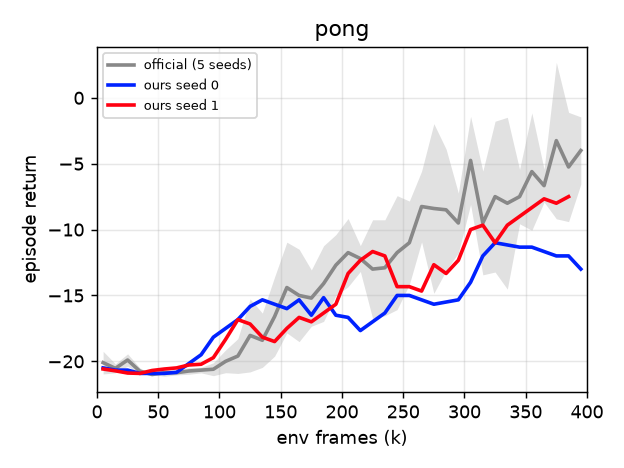
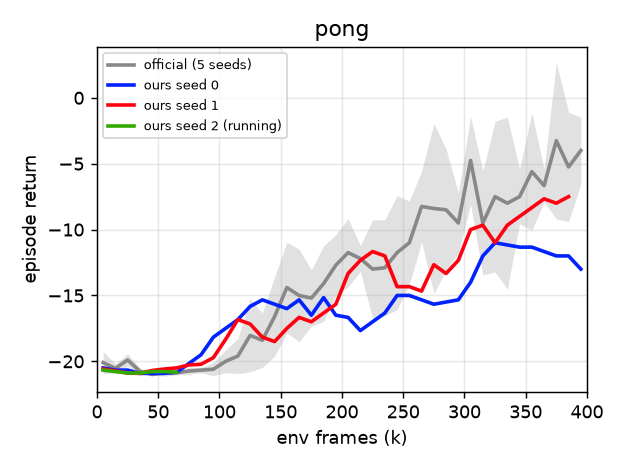
Ms Pacman seed 1 finished

diff --git a/docs/index.md b/docs/index.md
@@ -5,7 +5,7 @@ title: DreamerV3 Reproduction (Week 1)
 
 # DreamerV3 Reproduction — Week 1 (Reproduce)
 
-_Last updated: 2026-11-23 19:48 KST · runs: 12 (finished 11, reproduced 0/6 games)_
+_Last updated: 2026-11-23 20:14 KST · runs: 13 (finished 12, reproduced 0/6 games)_
 
 **Paper:** Hafner et al., *Mastering Diverse Domains through World Models* (DreamerV3), [arXiv 2301.04104](https://arxiv.org/abs/2301.04104), Nature 2025.
 **Code:** [danijar/dreamerv3](https://github.com/danijar/dreamerv3) at commit `e01491f` (Oct 2026), unmodified.
@@ -74,7 +74,7 @@ seed range `[min, max]` widened by one std.
 | hero | 2/3 | 11644.7 ± 1728.1 | 13354 | 13344.3 (13190.7–13465.0) | 35.6% / 41.4% | 80% | **below official range (partial 2/3)** |
 | krull | 2/3 | 6934.2 ± 790.8 | 8171 | 7683.5 (7365.0–8154.3) | 499.6% / 615.4% | 78% | **below official range (partial 2/3)** |
 | kung_fu_master | 2/3 | 22221.0 ± 1271.0 | 25900 | 23301.7 (18766.7–29533.3) | 97.7% / 114.1% | 82% | **reproduced (partial 2/3)** |
-| ms_pacman | 1/3 | 2394.3 ± 0.0 | 1521 | 1525.8 (1206.7–1807.5) | 31.4% / 18.3% | 40% | **above official range (partial 1/3)** |
+| ms_pacman | 2/3 | 1845.6 ± 548.7 | 1521 | 1525.8 (1206.7–1807.5) | 23.2% / 18.3% | 57% | **final ok, curve differs (partial 2/3)** |
 | pong | 2/3 | -9.9 ± 2.1 | -4 | -4.2 (-9.2–-1.3) | 30.9% / 47.2% | 82% | **reproduced (partial 2/3)** |
 
 #### Per seed
@@ -90,9 +90,10 @@ seed range `[min, max]` widened by one std.
 | kung_fu_master | 0 | 100% | 23492.0 | 23301.7 ± 4398.5 (18766.7–29533.3) | 88% | **reproduced** |
 | kung_fu_master | 1 | 100% | 20950.0 | 23301.7 ± 4398.5 (18766.7–29533.3) | 72% | **reproduced** |
 | ms_pacman | 0 | 100% | 2394.3 | 1525.8 ± 240.7 (1206.7–1807.5) | 40% | **above official range** |
-| ms_pacman | 1 | 89% | – | 1525.8 ± 240.7 (1206.7–1807.5) | 83% | **running** |
+| ms_pacman | 1 | 100% | 1296.9 | 1525.8 ± 240.7 (1206.7–1807.5) | 82% | **reproduced** |
 | pong | 0 | 100% | -12.0 | -4.2 ± 2.7 (-9.2–-1.3) | 74% | **below official range** |
 | pong | 1 | 100% | -7.8 | -4.2 ± 2.7 (-9.2–-1.3) | 89% | **reproduced** |
+| pong | 2 | 16% | – | -4.2 ± 2.7 (-9.2–-1.3) | 86% | **running** |
 
 
 ![atari100k](assets/atari100k_overview.png)

diff --git a/docs/results.md b/docs/results.md
@@ -6,7 +6,7 @@
 | hero | 2/3 | 11644.7 ± 1728.1 | 13354 | 13344.3 (13190.7–13465.0) | 35.6% / 41.4% | 80% | **below official range (partial 2/3)** |
 | krull | 2/3 | 6934.2 ± 790.8 | 8171 | 7683.5 (7365.0–8154.3) | 499.6% / 615.4% | 78% | **below official range (partial 2/3)** |
 | kung_fu_master | 2/3 | 22221.0 ± 1271.0 | 25900 | 23301.7 (18766.7–29533.3) | 97.7% / 114.1% | 82% | **reproduced (partial 2/3)** |
-| ms_pacman | 1/3 | 2394.3 ± 0.0 | 1521 | 1525.8 (1206.7–1807.5) | 31.4% / 18.3% | 40% | **above official range (partial 1/3)** |
+| ms_pacman | 2/3 | 1845.6 ± 548.7 | 1521 | 1525.8 (1206.7–1807.5) | 23.2% / 18.3% | 57% | **final ok, curve differs (partial 2/3)** |
 | pong | 2/3 | -9.9 ± 2.1 | -4 | -4.2 (-9.2–-1.3) | 30.9% / 47.2% | 82% | **reproduced (partial 2/3)** |
 
 #### Per seed
@@ -22,6 +22,7 @@
 | kung_fu_master | 0 | 100% | 23492.0 | 23301.7 ± 4398.5 (18766.7–29533.3) | 88% | **reproduced** |
 | kung_fu_master | 1 | 100% | 20950.0 | 23301.7 ± 4398.5 (18766.7–29533.3) | 72% | **reproduced** |
 | ms_pacman | 0 | 100% | 2394.3 | 1525.8 ± 240.7 (1206.7–1807.5) | 40% | **above official range** |
-| ms_pacman | 1 | 89% | – | 1525.8 ± 240.7 (1206.7–1807.5) | 83% | **running** |
+| ms_pacman | 1 | 100% | 1296.9 | 1525.8 ± 240.7 (1206.7–1807.5) | 82% | **reproduced** |
 | pong | 0 | 100% | -12.0 | -4.2 ± 2.7 (-9.2–-1.3) | 74% | **below official range** |
 | pong | 1 | 100% | -7.8 | -4.2 ± 2.7 (-9.2–-1.3) | 89% | **reproduced** |
+| pong | 2 | 16% | – | -4.2 ± 2.7 (-9.2–-1.3) | 86% | **running** |
